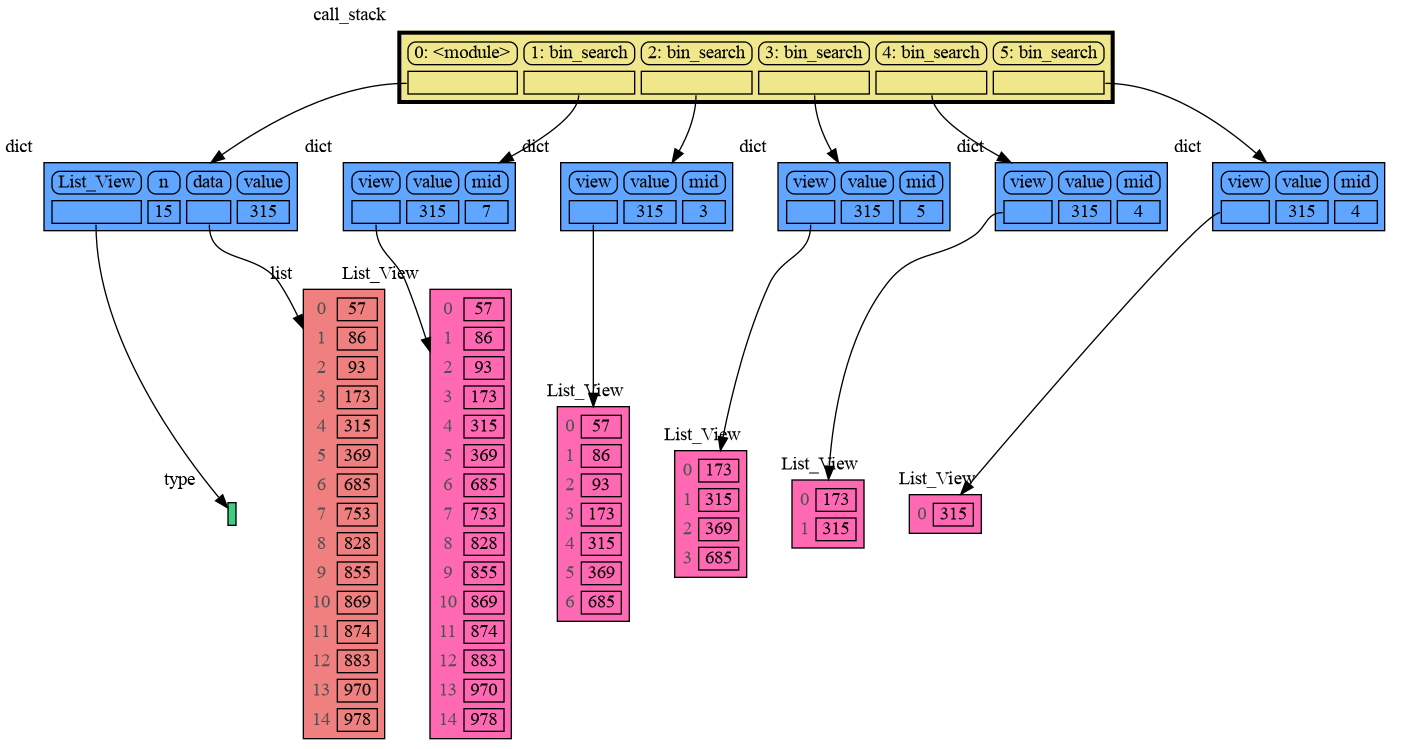
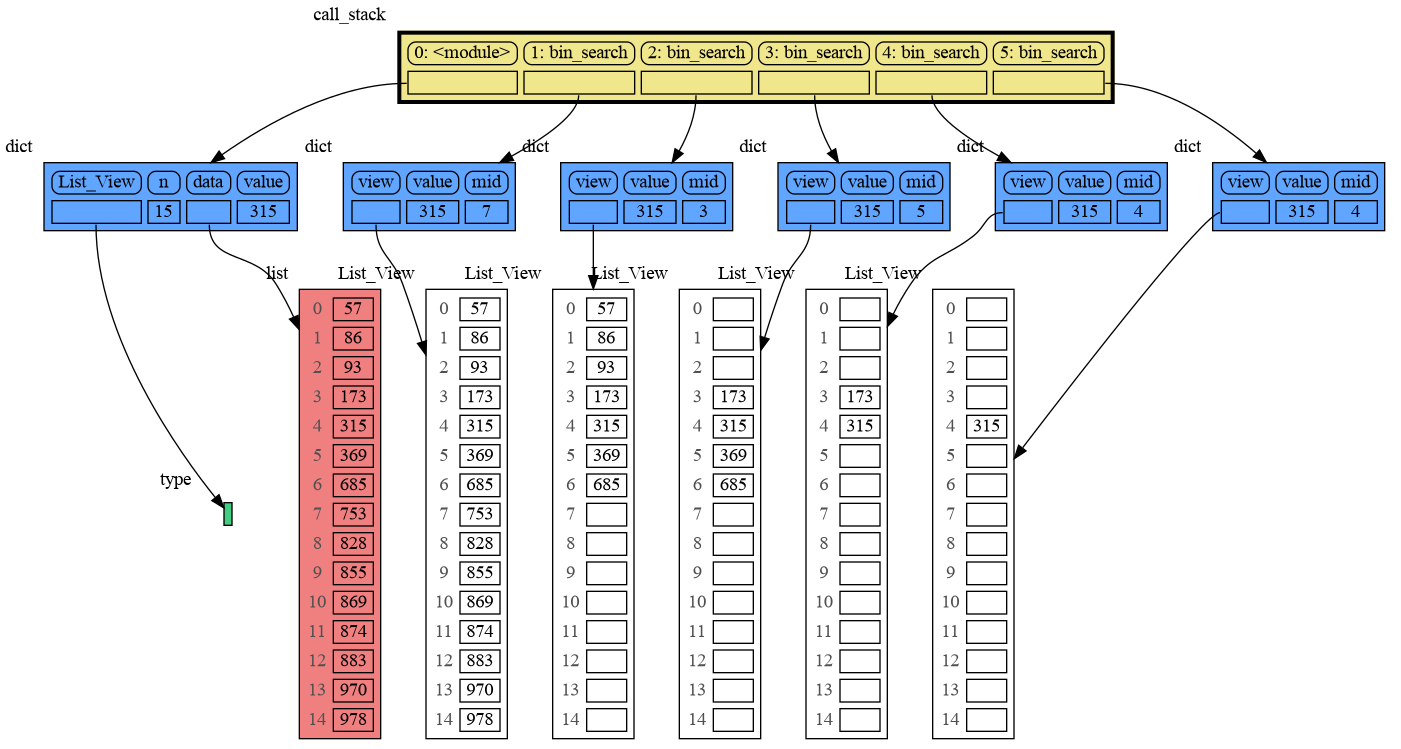
update

diff --git a/images/bin_search.py b/images/bin_search.py
@@ -19,9 +19,10 @@ def bin_search(view, value):
     mid = view.get_mid()
     if view.begin == mid:
         mg.render(mg.stack(), 'bin_search.png')
-        mg.config.type_to_color[List_View] = 'hotpink'
-        mg.config.type_to_node[List_View] = lambda data: mg.node_linear.Node_Linear(data,
-                                                            data.lst[data.begin:data.end] )
+        mg.config.type_to_node[List_View] = (lambda l: mg.Node_Linear(l,
+           [v if l.begin <= i < l.end else '' for i, v in enumerate(l.lst)]
+           if hasattr(l, 'end') else [])
+        )
         mg.render(mg.stack(), 'bin_search_linear.png')
         return view.begin
     if value < view[mid]:

diff --git a/README.md b/README.md
@@ -949,9 +949,10 @@ print('index:', index, 'data[index]:', data[index])
 Arguably the visualization is then more clear when we show a List_View object as an actual sublist using a Node_linear node:
 
 ```python
-mg.config.type_to_color[List_View] = 'hotpink'
-mg.config.type_to_node[List_View] = lambda data: mg.Node_Linear(data,
-                                                    data.lst[data.begin:data.end])
+mg.config.type_to_node[List_View] = (lambda l: mg.Node_Linear(l,
+    [v if l.begin <= i < l.end else '' for i, v in enumerate(l.lst)]
+    if hasattr(l, 'end') else [])
+)
 ```
 ![bin_search_linear.png](https://raw.githubusercontent.com/bterwijn/memory_graph/main/images/bin_search_linear.png)
 
